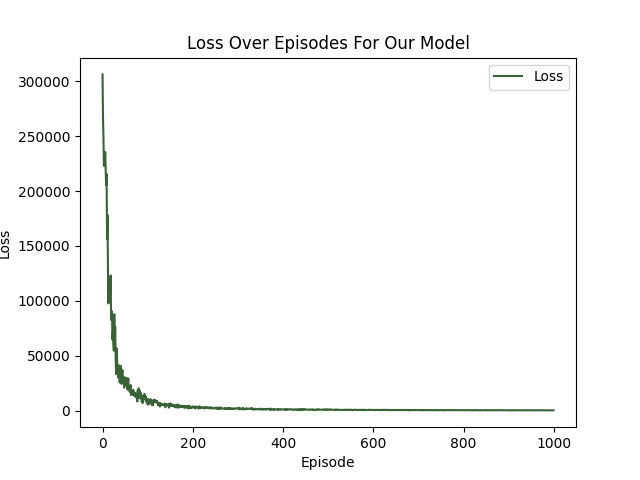
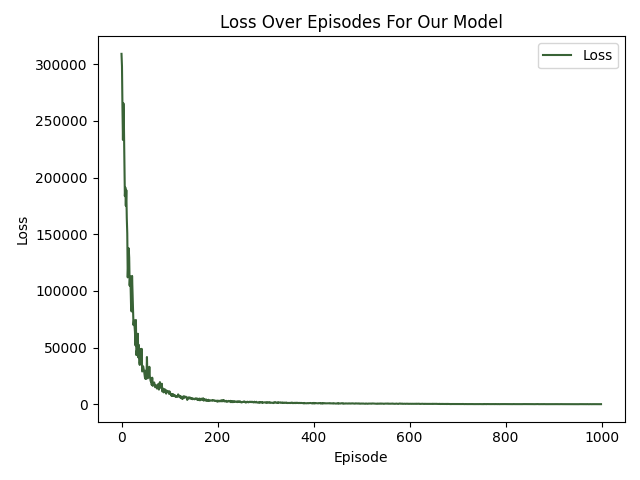
new heatmap for action

diff --git a/actions_heatmap.py b/actions_heatmap.py
@@ -2,6 +2,8 @@ import numpy as np
 import matplotlib.pyplot as plt
 from matplotlib.animation import FuncAnimation
 from training import all_actions 
+from matplotlib.colors import Normalize
+
 
 time_steps = len(all_actions)
 grid_y = 3
@@ -11,7 +13,12 @@ actions_array = np.array(all_actions).reshape(time_steps, grid_y, grid_x)
 
 fig, ax = plt.subplots()
 cax = ax.matshow(actions_array[0], cmap='coolwarm')
-fig.colorbar(cax)
+
+action_labels = ['Off', 'Low', 'Medium', 'High']
+norm = Normalize(vmin=0, vmax=len(action_labels)-1)
+
+colors = plt.cm.coolwarm(norm(range(len(action_labels))))
+
 
 def update(frame):
     cax.set_data(actions_array[frame]) 
@@ -19,5 +26,9 @@ def update(frame):
     return cax,
 
 ani = FuncAnimation(fig, update, frames=range(time_steps), blit=False, interval=200)
+plt.legend(handles=[plt.Line2D([0], [0], marker='o', color='w', markerfacecolor=colors[i], markersize=10) for i in range(len(action_labels))],
+           labels=action_labels,
+           loc='center left',
+           bbox_to_anchor=(1, 0.5))
 
 plt.show()

diff --git a/training.py b/training.py
@@ -154,6 +154,7 @@ plt.xlabel('Episode')
 plt.ylabel('Reward')
 plt.title('Rewards Over Episodes For Our Model')
 plt.legend()
+plt.tight_layout()  # Adjust plot to prevent labels from being cut off
 plt.savefig('model_rewards_plot.png')  # Save the plot as a PNG image
 plt.close()
 
@@ -163,6 +164,7 @@ plt.xlabel('Episode')
 plt.ylabel('Loss')
 plt.title('Loss Over Episodes For Our Model')
 plt.legend()
+plt.tight_layout()  # Adjust plot to prevent labels from being cut off
 plt.savefig('loss_plot.png')  # Save the plot as a PNG image
 plt.close()
 
@@ -204,6 +206,7 @@ plt.xlabel('Episode')
 plt.ylabel('Reward')
 plt.title('Rewards Over Episodes for Random Choices')
 plt.legend()
+plt.tight_layout()  # Adjust plot to prevent labels from being cut off
 plt.savefig('random_model_rewards_plot.png')  # Save the plot as a PNG image
 plt.close()
 
